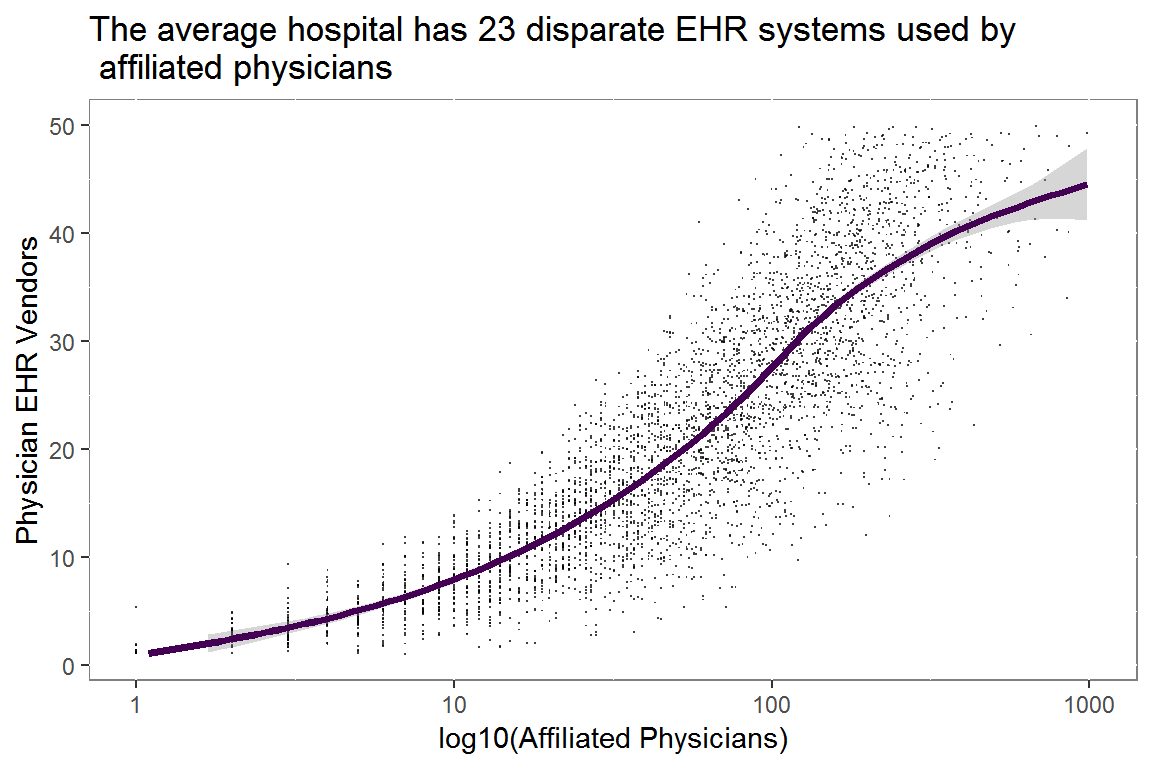
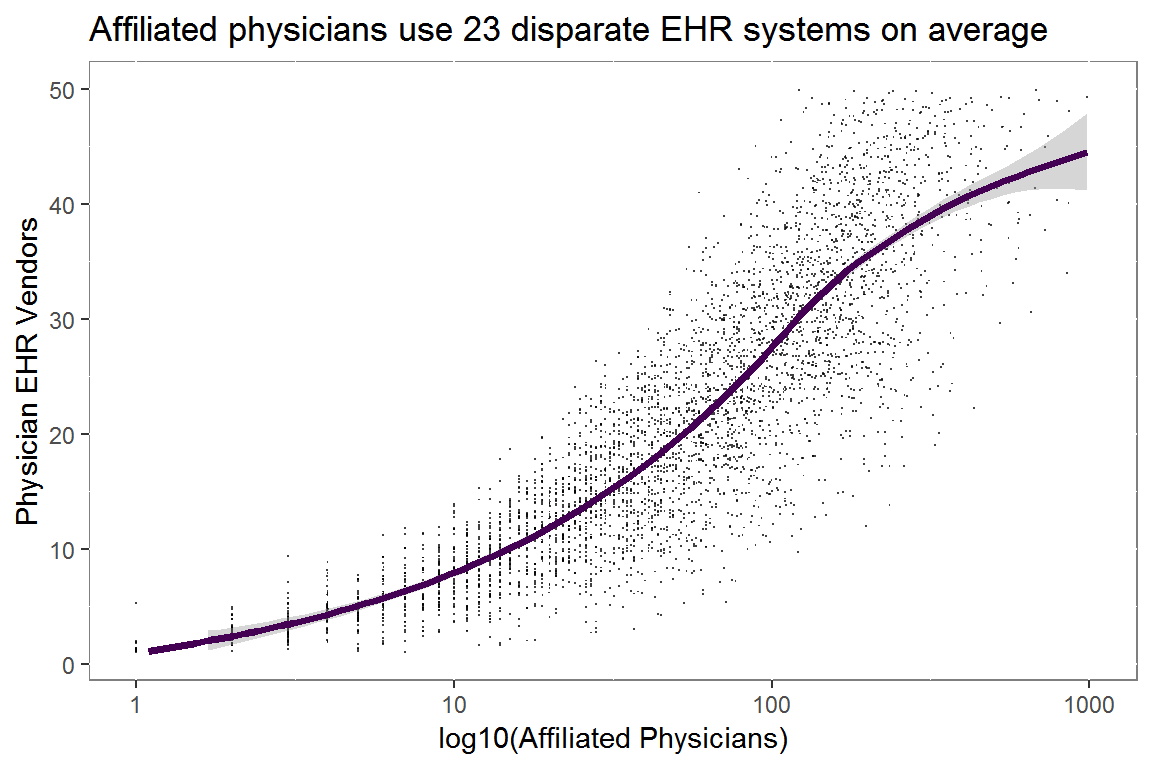
prose

diff --git a/data.html b/data.html
@@ -675,10 +675,9 @@ aff.mu.npi.cnt &lt;-<span class="st"> </span>aff.mu.npi[,
 <span class="st">  </span><span class="kw">scale_x_log10</span>(<span class="dt">limits =</span> <span class="kw">c</span>(<span class="dv">1</span>, <span class="dv">1000</span>))<span class="op">+</span>
 <span class="st">  </span><span class="kw">scale_color_viridis_d</span>(<span class="dt">begin =</span> <span class="fl">0.0</span>,
                        <span class="dt">end =</span> <span class="fl">0.1</span>)<span class="op">+</span>
-<span class="st">  </span><span class="kw">labs</span>(<span class="dt">title =</span> <span class="kw">paste</span>(<span class="st">&quot;The average hospital has&quot;</span>,
+<span class="st">  </span><span class="kw">labs</span>(<span class="dt">title =</span> <span class="kw">paste</span>(<span class="st">&quot;Affiliated physicians use&quot;</span>,
                      <span class="kw">round</span>(<span class="kw">mean</span>(aff.mu.avg<span class="op">$</span>Vendors)),
-                    <span class="st">&quot;disparate EHR systems used by&quot;</span>,
-                    <span class="st">&quot;</span><span class="ch">\n</span><span class="st"> affiliated physicians&quot;</span>),
+                    <span class="st">&quot;disparate EHR systems on average&quot;</span>),
        <span class="dt">x =</span> <span class="st">&quot;log10(Affiliated Physicians)&quot;</span>,
        <span class="dt">y =</span> <span class="st">&quot;Physician EHR Vendors&quot;</span>)<span class="op">+</span>
 <span class="st">  </span><span class="kw">theme</span>(<span class="dt">panel.background =</span>
